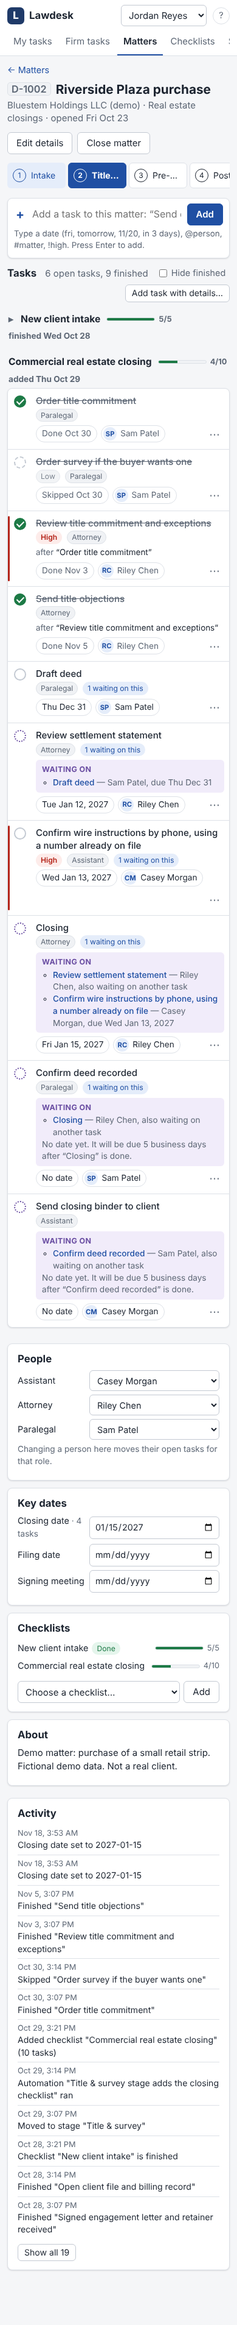
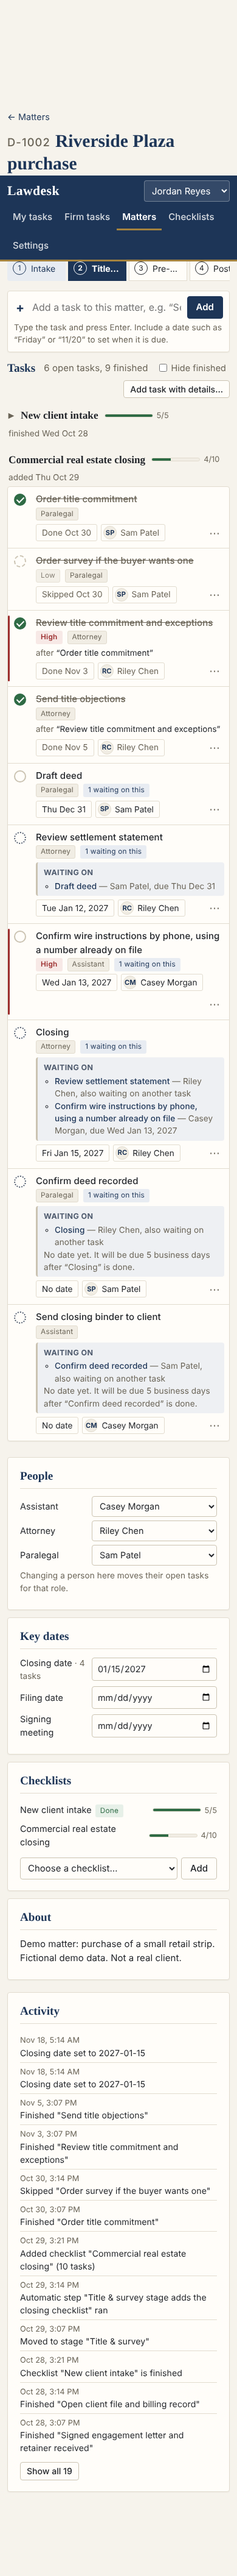
Lawdesk: professional look (serif headings, navy and ivory) and plain-English labels
Claude-Session: https://claude.ai/code/session_01U6jvpduxpYeQQNZk3wkjkj

Changed region(s): [[0.0, 0.0, 1.0, 0.9667], [0.0308, 0.343, 0.0923, 0.4054]]

diff --git a/lawdesk/public/app.css b/lawdesk/public/app.css
@@ -1,57 +1,33 @@
 /* Lawdesk — one stylesheet, no framework. */
 
 :root {
-  --bg: #f5f6f8;
-  --surface: #ffffff;
-  --surface-2: #f0f2f5;
-  --border: #dde1e7;
-  --border-strong: #c3c9d2;
-  --text: #1c2430;
-  --muted: #5d6775;
-  --accent: #1f4fa3;
-  --accent-soft: #e5edfa;
+  /* Quiet, traditional palette: ivory paper, navy ink, warm greys. */
+  --bg: #f6f3ec;
+  --surface: #fffdf9;
+  --surface-2: #f1ede4;
+  --border: #e2dccf;
+  --border-strong: #cbc3b2;
+  --text: #23262b;
+  --muted: #6a6457;
+  --accent: #1d3557;
+  --accent-soft: #e8ecf2;
   --accent-text: #ffffff;
-  --late: #b42318;
-  --late-soft: #fdecea;
-  --today: #9a5b00;
-  --today-soft: #fff4de;
-  --wait: #6b4fa3;
-  --wait-soft: #f1ecfa;
-  --good: #1d7a46;
-  --good-soft: #e5f5ec;
-  --focus: #2f6fe0;
-  --radius: 8px;
-  --shadow: 0 1px 2px rgba(16, 24, 40, 0.06), 0 1px 3px rgba(16, 24, 40, 0.08);
-  --shadow-pop: 0 8px 24px rgba(16, 24, 40, 0.18);
-  --font: system-ui, -apple-system, "Segoe UI", Roboto, "Helvetica Neue", Arial, sans-serif;
+  --gold: #a5833f;
+  --late: #9b2c2c;
+  --late-soft: #f7e9e6;
+  --today: #8a5a12;
+  --today-soft: #f8f0dd;
+  --wait: #4f5b6e;
+  --wait-soft: #eef0f3;
+  --good: #2f6b45;
+  --good-soft: #e7f0e8;
+  --focus: #3c5f8f;
+  --radius: 4px;
+  --shadow: 0 1px 2px rgba(35, 30, 20, 0.05);
+  --shadow-pop: 0 10px 30px rgba(35, 30, 20, 0.16);
+  --font: "Segoe UI", -apple-system, BlinkMacSystemFont, "Helvetica Neue", Arial, sans-serif;
+  --serif: "Iowan Old Style", "Palatino Linotype", Palatino, "Book Antiqua", Georgia, "Times New Roman", serif;
   color-scheme: light;
-}
-
-@media (prefers-color-scheme: dark) {
-  :root {
-    --bg: #12161c;
-    --surface: #1a2029;
-    --surface-2: #222a35;
-    --border: #2e3744;
-    --border-strong: #404b5b;
-    --text: #e6e9ee;
-    --muted: #9aa4b2;
-    --accent: #7aa7ff;
-    --accent-soft: #1f2d47;
-    --accent-text: #0d1420;
-    --late: #ff8a80;
-    --late-soft: #3a1f1f;
-    --today: #f5b950;
-    --today-soft: #3a2e17;
-    --wait: #b9a2ef;
-    --wait-soft: #2b2540;
-    --good: #6fd39a;
-    --good-soft: #1b3326;
-    --focus: #7aa7ff;
-    --shadow: 0 1px 2px rgba(0, 0, 0, 0.4);
-    --shadow-pop: 0 8px 24px rgba(0, 0, 0, 0.5);
-    color-scheme: dark;
-  }
 }
 
 * {
@@ -983,11 +959,6 @@ h3.group-title {
   padding: 10px 10px 10px 14px;
   box-shadow: var(--shadow-pop);
   animation: rise 0.18s ease;
-}
-@media (prefers-color-scheme: dark) {
-  .toast {
-    background: #2d3644;
-  }
 }
 .toast.error {
   background: #7a1c14;
@@ -1936,3 +1907,64 @@ code {
     scroll-behavior: auto !important;
   }
 }
+
+
+/* ------------------------------------------------------------------
+   Professional finish: serif headings, navy masthead, quieter chips.
+   ------------------------------------------------------------------ */
+body { font-size: 15px; line-height: 1.5; letter-spacing: 0.005em; }
+h1, h2, h3, .group-title, .modal-head, legend { font-family: var(--serif); font-weight: 600; letter-spacing: 0; }
+h1 { font-size: 1.85rem; font-weight: 600; color: var(--accent); }
+h2 { font-size: 1.2rem; color: var(--accent); }
+h3, .group-title, h3.group-title { font-size: 1.08rem; }
+.card > h2 { padding-bottom: 8px; margin-bottom: 12px; border-bottom: 1px solid var(--border); }
+
+.top { background: var(--accent); border-bottom: 3px solid var(--gold); box-shadow: none; color: #fff; min-height: 60px; }
+.brand { color: #fff; font-family: var(--serif); font-size: 1.35rem; font-weight: 600; letter-spacing: 0.02em; }
+.brand:hover { color: #fff; text-decoration: none; }
+.brand-mark { display: none; }
+.nav-link { color: rgba(255, 255, 255, 0.82); font-weight: 500; }
+.nav-link:hover { color: #fff; background: rgba(255, 255, 255, 0.08); text-decoration: none; }
+.nav-link[aria-current="page"] { color: #fff; background: transparent; box-shadow: inset 0 -3px 0 var(--gold); }
+.who-label { color: rgba(255, 255, 255, 0.75); }
+.who-box select { background: rgba(255, 255, 255, 0.1); color: #fff; border-color: rgba(255, 255, 255, 0.3); }
+.who-box select option { color: var(--text); background: #fff; }
+.help-btn { display: none; }
+
+.page { max-width: 1180px; }
+main { padding-top: 28px; padding-bottom: 48px; }
+.page-head { margin: 6px 0 22px; padding-bottom: 14px; border-bottom: 1px solid var(--border); }
+.card { border-radius: var(--radius); padding: 18px 20px; }
+.btn { border-radius: var(--radius); font-weight: 500; }
+.btn.primary { background: var(--accent); border-color: var(--accent); }
+.btn.primary:hover { background: #142844; }
+input, select, textarea { border-radius: var(--radius); }
+
+/* Matter numbers read as a file reference, not a code. */
+.num { background: none; border: 0; padding: 0; font-size: 0.62em; font-weight: 500; color: var(--muted);
+  font-family: var(--font); letter-spacing: 0.06em; text-transform: uppercase; vertical-align: middle; margin-right: 8px; }
+.key-input, .step-row .key-input { display: none !important; }
+kbd, code { font-family: var(--font); }
+
+/* Quieter pills and tags. */
+.tag { border-radius: 3px; font-size: 0.74rem; letter-spacing: 0.02em; }
+.chip { border-radius: 3px; }
+.avatar { background: var(--surface-2); color: var(--accent); border: 1px solid var(--border); }
+.stat { border-radius: var(--radius); }
+.stat-n { font-family: var(--serif); font-weight: 600; }
+
+/* Stage bar: understated tabs instead of bright blocks. */
+.stage { border-radius: 0; background: var(--surface); }
+.stage-bar li:first-child .stage { border-radius: var(--radius) 0 0 var(--radius); }
+.stage-bar li:last-child .stage { border-radius: 0 var(--radius) var(--radius) 0; }
+.stage.past { background: var(--accent-soft); color: var(--accent); }
+.stage.current { background: var(--accent); }
+
+.task.prio-high::before { background: var(--late); }
+.waiting-on { border-radius: var(--radius); border-left: 3px solid var(--border-strong); }
+.quick-add { border-radius: var(--radius); }
+.toast { border-radius: var(--radius); }
+table.matters th, .settings-table th { font-weight: 600; text-transform: uppercase; font-size: 0.72rem; letter-spacing: 0.06em; color: var(--muted); }
+.group-title { text-transform: none; letter-spacing: 0; }
+.group-title .count, .group-title .muted, .group-title small, .group-note, .check-prog, .group-title > span + span { font-family: var(--font); font-weight: 400; }
+@media (max-width: 640px) { .nav { flex-wrap: wrap; } .nav-link { padding-left: 9px; padding-right: 9px; } }

diff --git a/lawdesk/public/js/tasks.js b/lawdesk/public/js/tasks.js
@@ -34,8 +34,8 @@ export function ruleText(t, depTitles = []) {
 /** Why a task has the date it has (or has none). */
 export function dueExplain(t, depTitles = []) {
   const rule = ruleText(t, depTitles);
-  if (t.due_locked) return rule ? `Date typed in by hand. The checklist rule would be: ${rule}.` : "Date typed in by hand.";
-  if (!rule) return t.due_date ? "Date typed in by hand." : "No due date.";
+  if (t.due_locked) return rule ? `Date typed in by hand. The checklist rule would be: ${rule}.` : "Date set manually.";
+  if (!rule) return t.due_date ? "Date set manually." : "No due date.";
   if (t.due_date) return `Due ${rule}.`;
   if (t.anchor === "after_deps") return `No date yet. It will be due ${rule}.`;
   if (String(t.anchor).startsWith("field:")) return `No date yet: set the ${dateFieldLabel(t.anchor.slice(6))} on the matter. Rule: ${rule}.`;
@@ -224,7 +224,7 @@ export function editDue(t, anchor, refresh, depTitles = []) {
         "div.pop-actions",
         h("button.btn.primary.small", { type: "submit" }, "Save"),
         t.due_locked && rule
-          ? h("button.btn.small", { type: "button", onclick: () => save(null, "Due date follows the checklist rule again") }, "Use checklist rule")
+          ? h("button.btn.small", { type: "button", onclick: () => save(null, "Due date follows the checklist schedule again") }, "Use checklist schedule")
           : !rule && t.due_date
             ? h("button.btn.small", { type: "button", onclick: () => save(null, "Due date cleared") }, "No date")
             : null,
@@ -323,7 +323,7 @@ export function taskRow(t, opts) {
     {
       type: "button",
       "aria-label": finished ? `Reopen: ${t.title}` : waiting ? `Waiting: ${t.title}` : `Mark done: ${t.title}`,
-      title: finished ? "Reopen" : waiting ? "Waiting on other tasks" : "Mark done (x)",
+      title: finished ? "Reopen" : waiting ? "Waiting on other tasks" : "Mark done",
       "aria-pressed": finished ? "true" : "false",
       onclick: () => {
         if (waiting) {
@@ -355,7 +355,7 @@ export function taskRow(t, opts) {
     "button.chip.who" + (t.assignee_id ? "" : ".none"),
     {
       type: "button",
-      title: t.assignee_name ? `Assigned to ${t.assignee_name}. Click to change (a).` : "Unassigned. Click to assign (a).",
+      title: t.assignee_name ? `Assigned to ${t.assignee_name}. Click to change (a).` : "Unassigned. Click to assign.",
       "aria-label": `Assigned to ${t.assignee_name || "nobody"}. Change`,
       disabled: finished,
       onclick: (e) => editAssignee(t, e.currentTarget, refresh),
@@ -480,7 +480,7 @@ export function quickAdd(opts) {
     autocomplete: "off",
     "aria-label": "Quick add a task",
     "aria-describedby": "quick-preview",
-    placeholder: opts.matter ? "Add a task to this matter: “Send draft to client fri @sam !high”" : "Add a task: “Call client re lease fri @sam #d-1004 !high”",
+    placeholder: opts.matter ? "Add a task to this matter, e.g. “Send draft to client by Friday”" : "Add a task, e.g. “Call client about the lease on Friday”",
     maxlength: 400,
   });
   const preview = h("div.quick-preview", { id: "quick-preview", "aria-live": "polite" });
@@ -497,7 +497,7 @@ export function quickAdd(opts) {
   const draw = () => {
     clear(preview);
     if (!input.value.trim()) {
-      append(preview, h("span.muted", "Type a date (fri, tomorrow, 11/20, in 3 days), @person, #matter, !high. Press Enter to add."));
+      append(preview, h("span.muted", "Type the task and press Enter. Include a date such as “Friday” or “11/20” to set when it is due."));
       return;
     }
     const p = parse();

diff --git a/lawdesk/public/js/views/settings.js b/lawdesk/public/js/views/settings.js
@@ -37,7 +37,7 @@ export async function settingsView() {
       ["s-areas", "Practice areas"],
       ["s-dates", "Matter dates"],
       ["s-closed", "Closed days"],
-      ["s-auto", "Automations"],
+      ["s-auto", "Automatic steps"],
     ].map(([id, label]) => h("a", { href: `#${id}`, onclick: (e) => (e.preventDefault(), document.getElementById(id)?.scrollIntoView({ behavior: "smooth" })) }, label)),
   );
   const body = h("div.settings-body");
@@ -235,7 +235,7 @@ export async function settingsView() {
     const s2 = select(stageOpts, "", { "aria-label": "Stage to move to" });
     return h(
       "section.card#s-auto",
-      h("h2", "Automations"),
+      h("h2", "Automatic steps"),
       s.automations.length
         ? h(
             "ul.plain.auto-list",
@@ -247,14 +247,14 @@ export async function settingsView() {
                   h("input", { type: "checkbox", checked: !!a.enabled, "aria-label": "On", onchange: (e) => act(() => patch(`/automations/${a.id}`, { enabled: e.target.checked }), e.target.checked ? "Turned on" : "Turned off") }),
                   h("span", sentence(a)),
                 ),
-                h("button.icon-btn.danger", { type: "button", "aria-label": "Delete automation", onclick: () => confirm("Delete this automation?") && act(() => del(`/automations/${a.id}`), "Deleted") }, "×"),
+                h("button.icon-btn.danger", { type: "button", "aria-label": "Delete this automatic step", onclick: () => confirm("Delete this automatic step?") && act(() => del(`/automations/${a.id}`), "Deleted") }, "×"),
               ),
             ),
           )
-        : h("p.muted", "No automations yet."),
+        : h("p.muted", "No automatic steps yet."),
       h(
         "form.auto-form",
-        { onsubmit: (e) => (e.preventDefault(), act(() => post("/automations", { trigger: "stage_entered", triggerRef: Number(s1.value), action: "apply_list", actionRef: Number(l1.value) }), "Automation added")) },
+        { onsubmit: (e) => (e.preventDefault(), act(() => post("/automations", { trigger: "stage_entered", triggerRef: Number(s1.value), action: "apply_list", actionRef: Number(l1.value) }), "Automatic step added")) },
         h("span", "When a matter enters"),
         s1,
         h("span", "add checklist"),
@@ -263,7 +263,7 @@ export async function settingsView() {
       ),
       h(
         "form.auto-form",
-        { onsubmit: (e) => (e.preventDefault(), act(() => post("/automations", { trigger: "list_completed", triggerRef: Number(l2.value), action: "set_stage", actionRef: Number(s2.value) }), "Automation added")) },
+        { onsubmit: (e) => (e.preventDefault(), act(() => post("/automations", { trigger: "list_completed", triggerRef: Number(l2.value), action: "set_stage", actionRef: Number(s2.value) }), "Automatic step added")) },
         h("span", "When checklist"),
         l2,
         h("span", "is finished, move the matter to"),

diff --git a/lawdesk/public/js/app.js b/lawdesk/public/js/app.js
@@ -36,7 +36,7 @@ function drawNav() {
   const cur = location.hash.split("/").slice(0, 2).join("/");
   replace(
     nav,
-    NAV.map((n) => h("a.nav-link", { href: n.href, "aria-current": cur === n.href ? "page" : null, title: `g then ${n.key}` }, n.label)),
+    NAV.map((n) => h("a.nav-link", { href: n.href, "aria-current": cur === n.href ? "page" : null, title: null }, n.label)),
   );
 }
 
@@ -47,14 +47,14 @@ function drawWho() {
     state.me,
     {
       id: "working-as",
-      "aria-label": "Working as",
+      "aria-label": "User",
       onchange: (e) => {
         setMe(Number(e.target.value));
         route();
       },
     },
   );
-  replace(whoBox, h("label.who-label", { for: "working-as" }, "Working as"), sel);
+  replace(whoBox, h("label.who-label", { for: "working-as" }, "User"), sel);
 }
 
 let renderSeq = 0;
@@ -102,7 +102,7 @@ function showHelp() {
     h(
       "div.modal-body",
       h("table.shortcuts", h("tbody", rows.map(([k, v]) => h("tr", h("td", h("kbd", k)), h("td", v))))),
-      h("p.muted", "Quick-add understands: fri, tomorrow, next mon, in 3 days, +5bd, 11/20, @person, #matter-number, !high."),
+      h("p.muted", "When adding a task you can type a date such as Friday, tomorrow or 11/20."),
     ),
   );
 }

diff --git a/lawdesk/public/js/views/checklists.js b/lawdesk/public/js/views/checklists.js
@@ -175,12 +175,12 @@ export async function checklistEditView([idStr]) {
       },
     });
     const role = h("input", { value: s.role, list: "role-list", "aria-label": `Step ${i + 1} role`, placeholder: "anyone", maxlength: 60, oninput: (e) => (s.role = e.target.value.trim()) });
-    const prio = select(["normal", "high", "low"].map((p) => ({ value: p, label: p })), s.priority, { "aria-label": `Step ${i + 1} priority`, onchange: (e) => (s.priority = e.target.value) });
+    const prio = select(["normal", "high", "low"].map((p) => ({ value: p, label: p[0].toUpperCase() + p.slice(1) + " priority" })), s.priority, { "aria-label": `Step ${i + 1} priority`, onchange: (e) => (s.priority = e.target.value) });
 
     const mode = select(
       [
         { value: "added", label: "after it's added to the matter" },
-        { value: "deps", label: "after the steps it depends on" },
+        { value: "deps", label: "after the steps it waits for" },
         { value: "date", label: "relative to a matter date" },
         { value: "none", label: "no due date" },
       ],

diff --git a/lawdesk/public/js/views/matter.js b/lawdesk/public/js/views/matter.js
@@ -363,7 +363,7 @@ export async function matterView([idStr]) {
       h("h2", "Activity"),
       h(
         "ol.activity-list",
-        items.map((a) => h("li", h("span.act-time", fmtTime(a.at)), h("span.act-who", a.user_name || "Lawdesk"), h("span.act-what", a.detail))),
+        items.map((a) => h("li", h("span.act-time", fmtTime(a.at)), h("span.act-who", a.user_name || "Automatic"), h("span.act-what", a.detail))),
       ),
       d.activity.length > items.length
         ? h("button.btn.small", { type: "button", onclick: () => ((showAllActivity = true), drawActivity()) }, `Show all ${d.activity.length}`)

diff --git a/lawdesk/src/engine.ts b/lawdesk/src/engine.ts
@@ -451,7 +451,7 @@ export class Engine {
     }
     const rules = this.all("SELECT * FROM automations WHERE enabled = 1 AND trigger = ? AND trigger_ref = ? ORDER BY id", trigger, ref);
     for (const r of rules) {
-      this.log("automation", `Automation "${r.name}" ran`, { matterId });
+      this.log("automation", `Automatic step "${r.name}" ran`, { matterId });
       if (r.action === "apply_list") this.applyList(matterId, r.action_ref, userId, depth + 1);
       else if (r.action === "set_stage") this.setStage(matterId, r.action_ref, userId, depth + 1);
     }

diff --git a/lawdesk/public/js/views/matters.js b/lawdesk/public/js/views/matters.js
@@ -76,7 +76,7 @@ export async function mattersView() {
       seg,
       h("input.search", {
         type: "search",
-        placeholder: "Search matters  ( / )",
+        placeholder: "Search matters",
         "aria-label": "Search matters",
         "data-search": "",
         oninput: (e) => ((q = e.target.value), draw()),

diff --git a/lawdesk/public/index.html b/lawdesk/public/index.html
@@ -3,7 +3,6 @@
   <head>
     <meta charset="utf-8" />
     <meta name="viewport" content="width=device-width, initial-scale=1" />
-    <meta name="color-scheme" content="light dark" />
     <title>Lawdesk</title>
     <link rel="icon" href="favicon.svg" type="image/svg+xml" />
     <link rel="stylesheet" href="app.css" />

diff --git a/lawdesk/public/js/views/firm.js b/lawdesk/public/js/views/firm.js
@@ -134,7 +134,7 @@ export async function firmTasksView() {
   );
   const search = h("input.search", {
     type: "search",
-    placeholder: "Filter by task, matter or person  ( / )",
+    placeholder: "Search tasks, matters or people",
     "aria-label": "Filter tasks",
     "data-search": "",
     oninput: (e) => {
